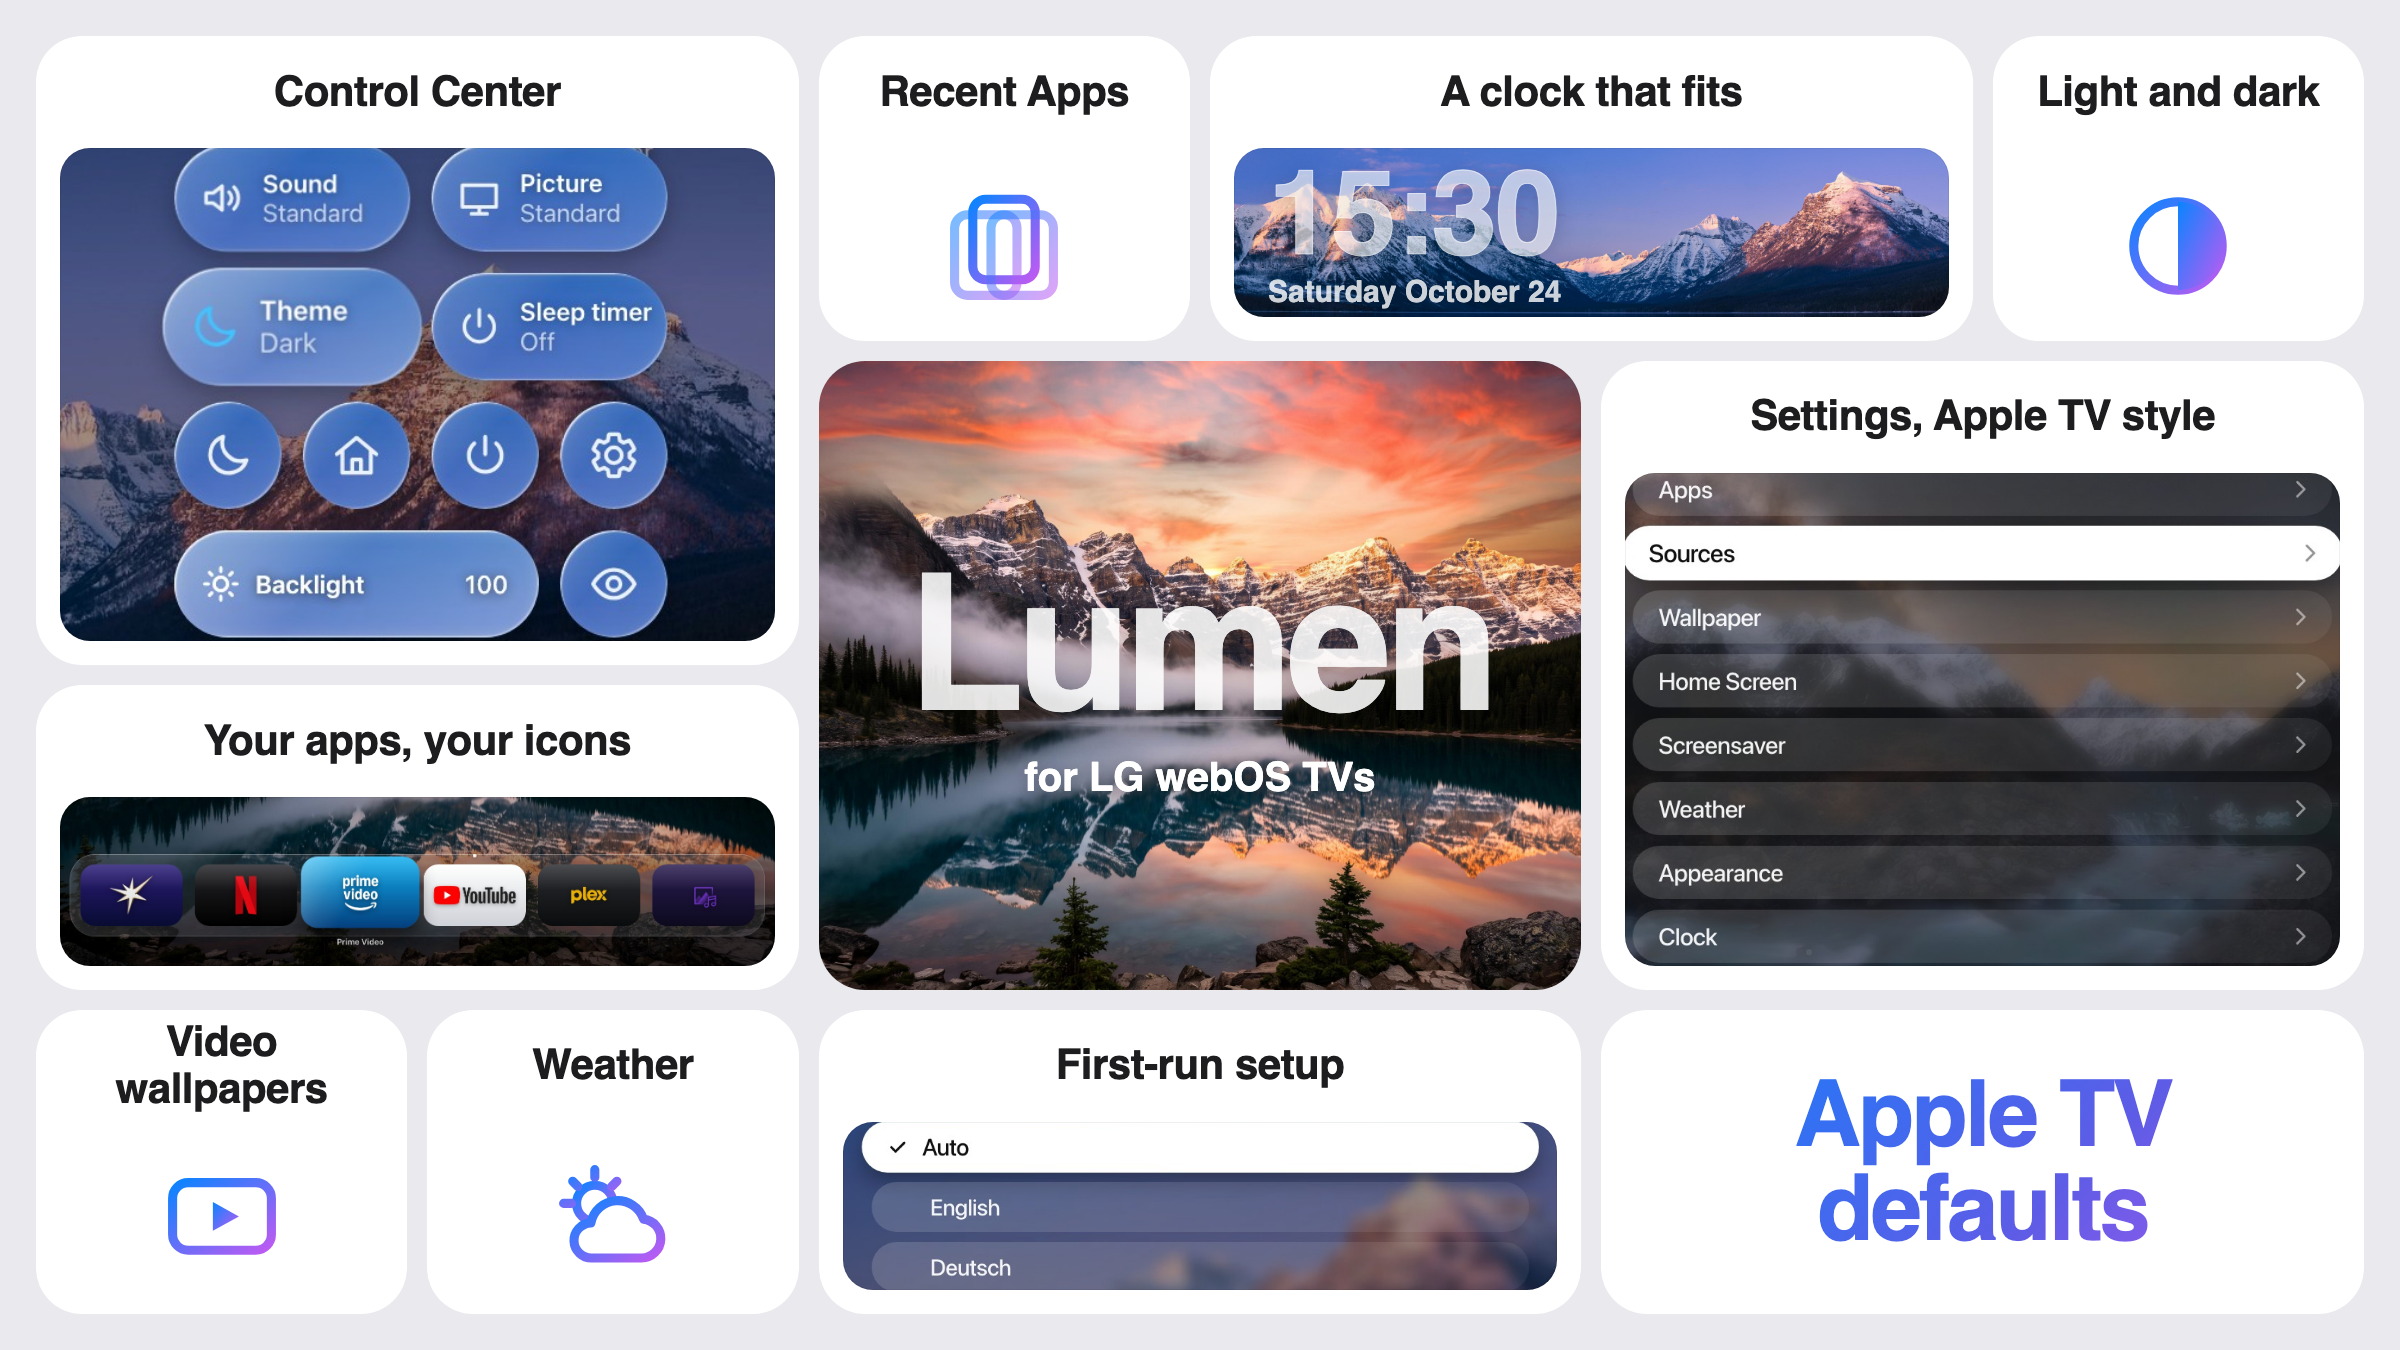
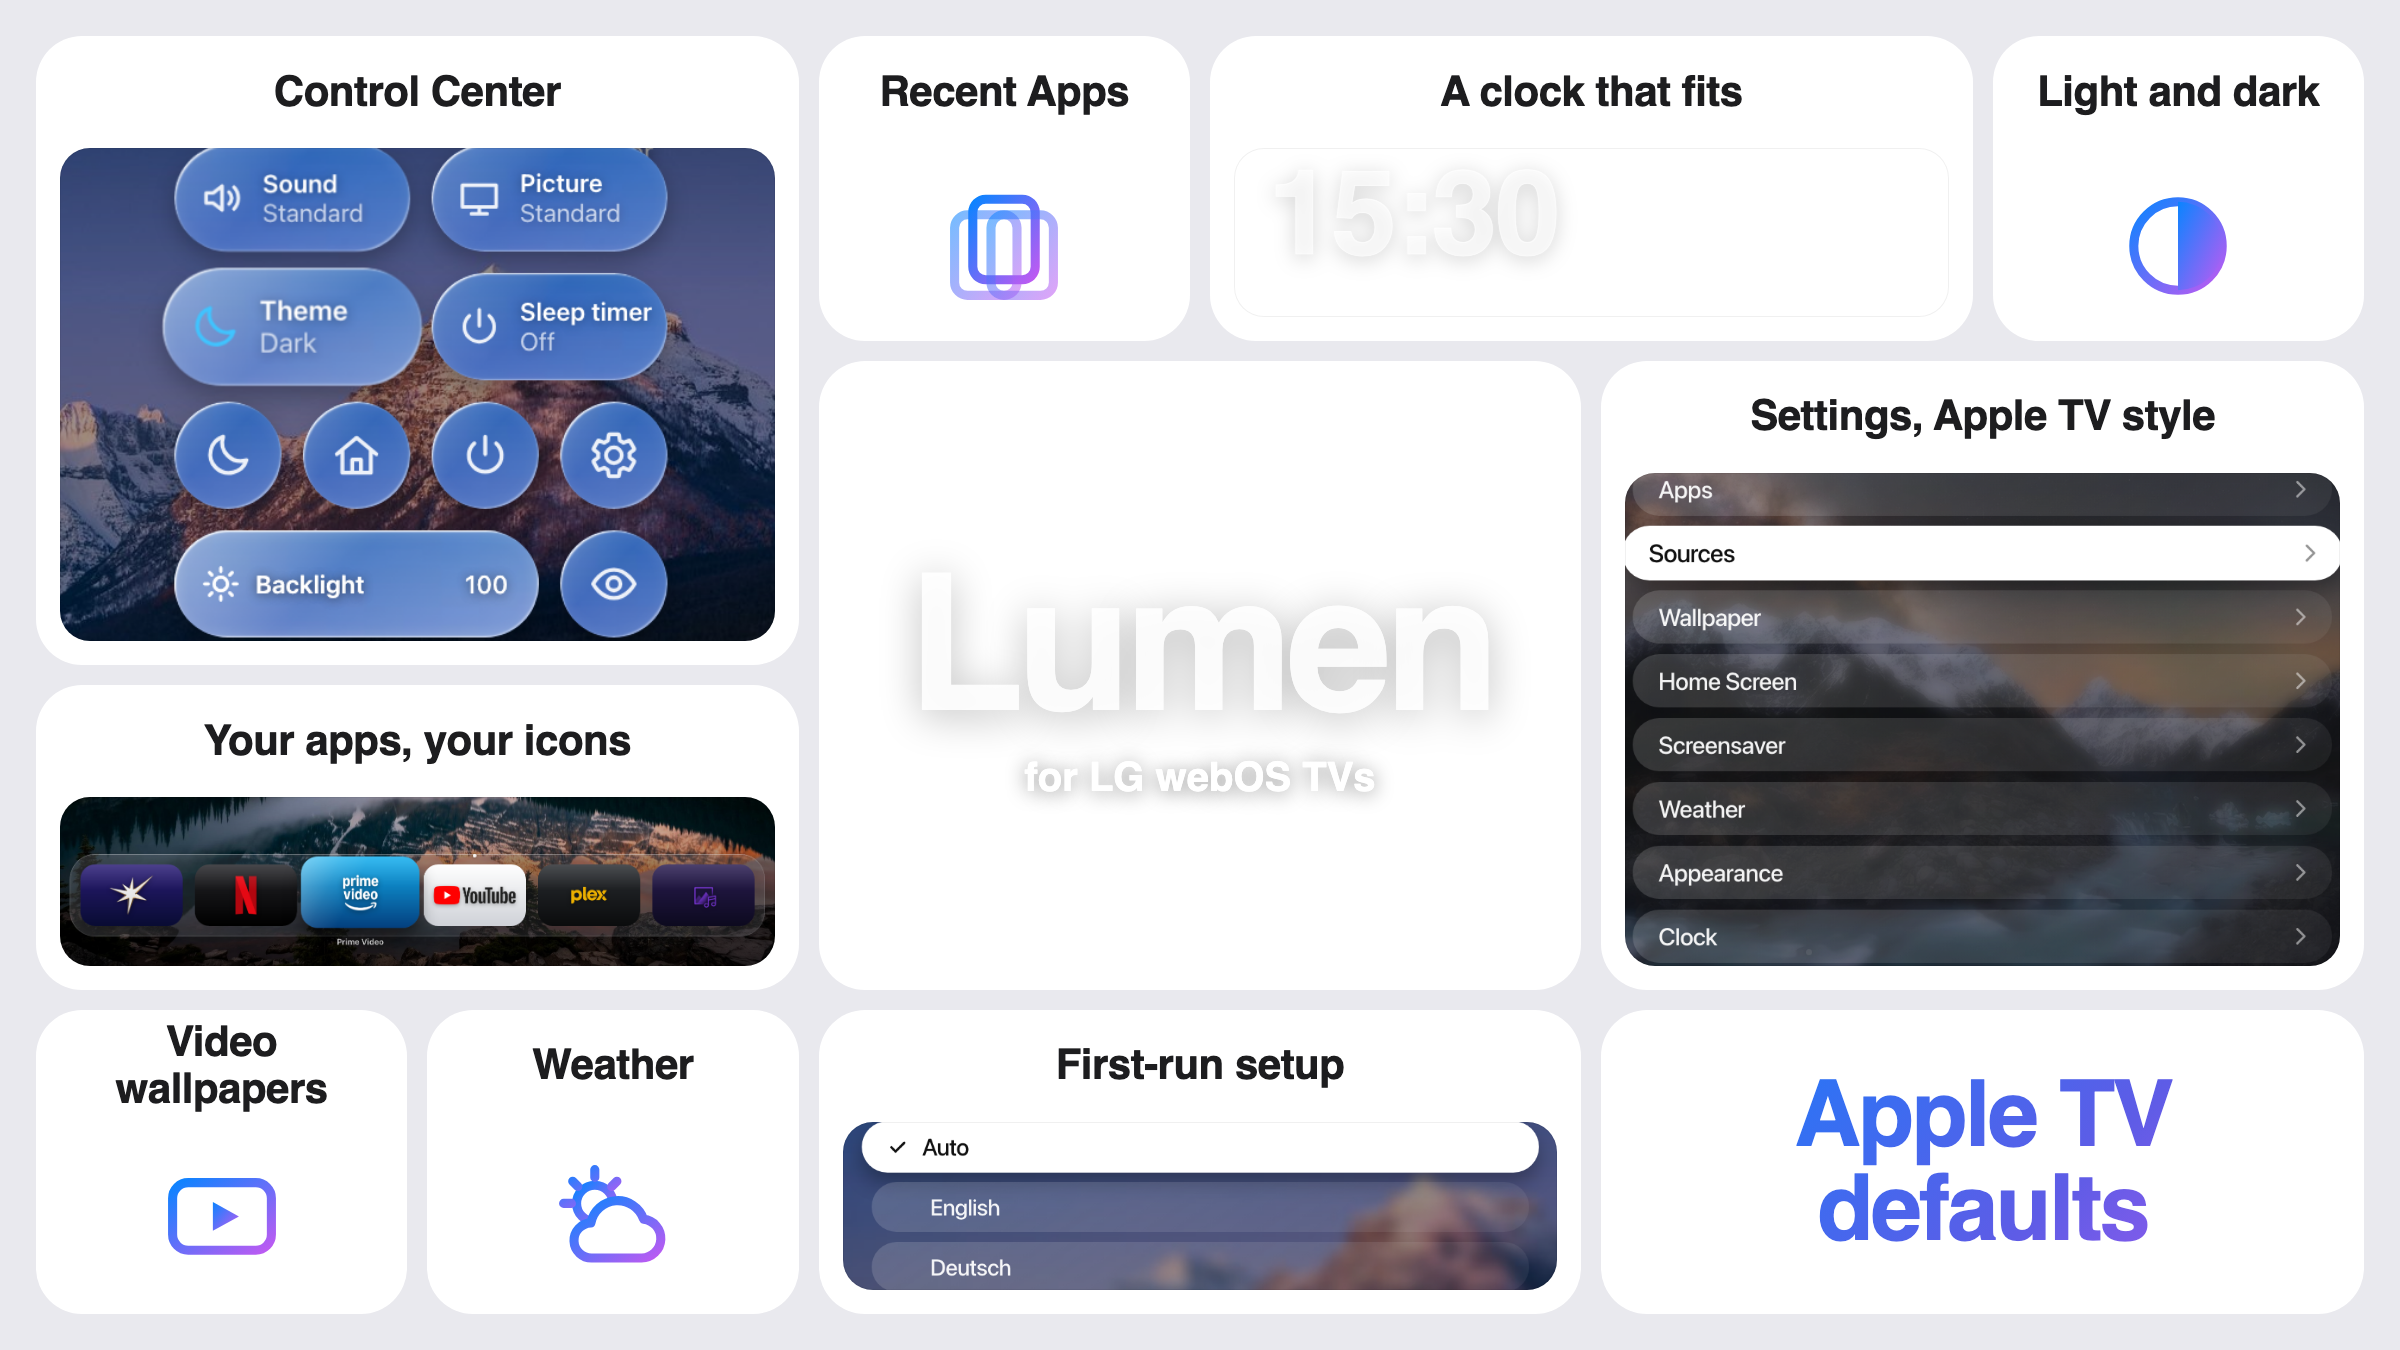
Control Center glass dimmed to match the scrim behind it

Changed region(s): [[0.3438, 0.0933, 0.8125, 0.7467]]

diff --git a/tools/apply_ccdim.py b/tools/apply_ccdim.py
@@ -1,0 +1,17 @@
+#!/usr/bin/env python3
+"""Layer: Control Center glass matches the dimmed screen. The scrim behind the Control Center darkens the wallpaper by 38%, but the glass shows the undimmed pre-blurred copy, so on a bright wallpaper the controls looked milky and flat. They now carry the same dimming."""
+import os
+ROOT = os.path.expanduser('~/Developer/webos-launcher-tvos')
+css = '''
+/* Control Center glass: the same 38%% dimming as the scrim behind it, so the controls read as glass over the dimmed picture */
+html:not(.light) .cc__mod:not(.cc__mod--focused) {
+	background-image: linear-gradient(135deg, rgba(255, 255, 255, 0.26), rgba(255, 255, 255, 0.07) 42%%, rgba(255, 255, 255, 0.16)), linear-gradient(rgba(0, 0, 0, 0.38), rgba(0, 0, 0, 0.38)), var(--wp-blur, none);
+	background-size: auto, auto, 1920px 1080px; background-attachment: scroll, scroll, fixed; background-position: 0 0, 0 0, 0 0; background-repeat: no-repeat;
+}
+html:not(.light) .cc__mod--focused {
+	background-image: linear-gradient(145deg, rgba(255, 255, 255, 0.5), rgba(255, 255, 255, 0.2) 55%%, rgba(255, 255, 255, 0.34)), linear-gradient(rgba(0, 0, 0, 0.22), rgba(0, 0, 0, 0.22)), var(--wp-blur, none);
+	background-size: auto, auto, 1920px 1080px; background-attachment: scroll, scroll, fixed; background-position: 0 0, 0 0, 0 0; background-repeat: no-repeat;
+}
+'''
+open(os.path.join(ROOT, 'app/src/theme/global.css'), 'a').write(css.replace('%%', '%'))
+print('ccdim applied')
